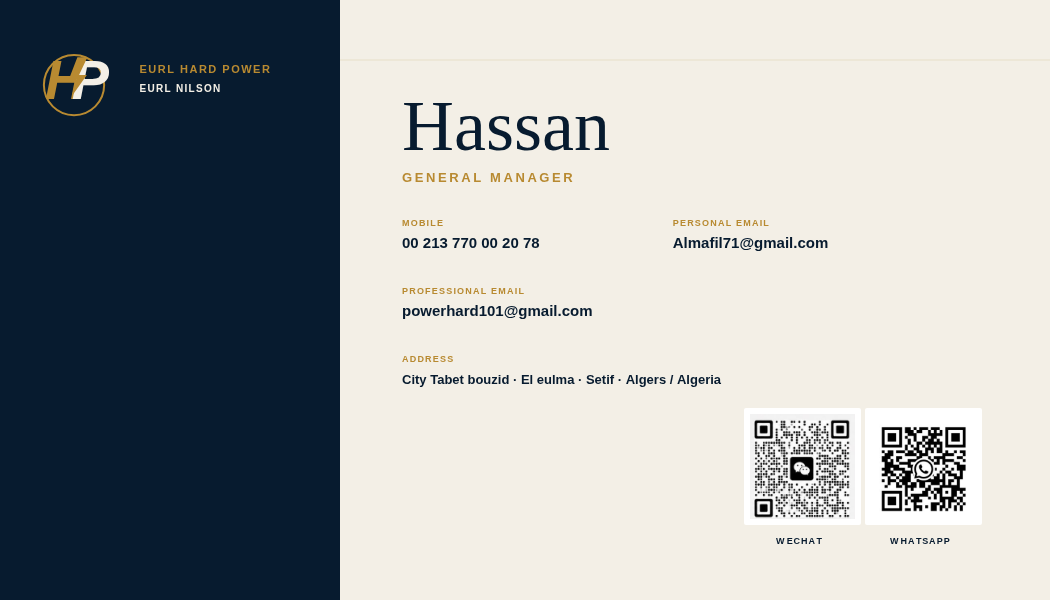
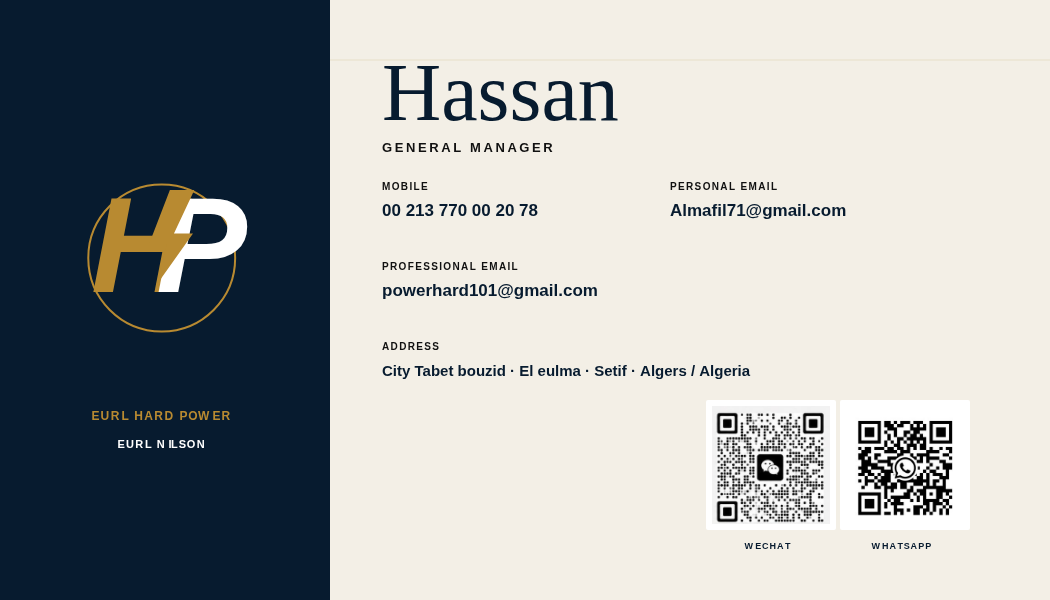
Publish complete 50-card Omar3 collection

diff --git a/omar3/render.js b/omar3/render.js
@@ -3,29 +3,38 @@ const W=1050,H=600,info={name:'Hassan',role:'General Manager',companies:['EURL H
 const id=Math.max(1,Math.min(50,+(new URLSearchParams(location.search).get('id')||1))),d=window.CARD_DESIGNS[id-1],c=document.getElementById('card'),x=c.getContext('2d');
 const qr1=new Image(),qr2=new Image();qr1.src='assets/wechat-qr.png';qr2.src='assets/whatsapp-qr.png';Promise.all([ready(qr1),ready(qr2)]).then(draw);
 function ready(im){return new Promise(r=>im.complete?r():im.onload=r)}
+function rgb(hex){let h=hex.replace('#','');if(h.length===3)h=h.split('').map(v=>v+v).join('');const n=parseInt(h,16);return[n>>16,n>>8&255,n&255]}
+function luminance(hex){return rgb(hex).map(v=>{v/=255;return v<=.03928?v/12.92:Math.pow((v+.055)/1.055,2.4)}).reduce((s,v,i)=>s+v*[.2126,.7152,.0722][i],0)}
+function ratio(a,b){const l1=luminance(a),l2=luminance(b);return(Math.max(l1,l2)+.05)/(Math.min(l1,l2)+.05)}
+function contrast(hex){return ratio('#111111',hex)>=ratio('#ffffff',hex)?'#111111':'#ffffff'}
+function accessible(fg,bg){return ratio(fg,bg)>=4.5?fg:contrast(bg)}
 function rect(a,b,w,h,col,rad=0){x.fillStyle=col;if(!rad){x.fillRect(a,b,w,h);return}x.beginPath();x.roundRect(a,b,w,h,rad);x.fill()}
 function line(a,b,cx,cy,col,w=1){x.strokeStyle=col;x.lineWidth=w;x.beginPath();x.moveTo(a,b);x.lineTo(cx,cy);x.stroke()}
 function text(s,a,b,size,col=d.ink,font=d.bodyFont,weight=400,align='left',italic=false){x.fillStyle=col;x.font=`${italic?'italic ':''}${weight} ${size}px ${font}`;x.textAlign=align;x.textBaseline='alphabetic';x.fillText(s,a,b)}
 function caps(s,a,b,size=11,col=d.accent,spacing=2,align='left'){x.save();x.fillStyle=col;x.font=`700 ${size}px ${d.bodyFont}`;x.textAlign=align;let chars=s.toUpperCase().split(''),width=chars.reduce((v,ch)=>v+x.measureText(ch).width,0)+spacing*(chars.length-1),p=align==='center'?a-width/2:align==='right'?a-width:a;chars.forEach(ch=>{x.fillText(ch,p,b);p+=x.measureText(ch).width+spacing});x.restore()}
 function logo(a,b,size,mode=0){x.save();if(mode%4===1){x.strokeStyle=d.accent;x.lineWidth=2;x.beginPath();x.arc(a+size*.52,b-size*.25,size*.54,0,Math.PI*2);x.stroke()}if(mode%4===2){x.strokeStyle=d.accent;x.strokeRect(a-10,b-size*.84,size*1.48,size)}text('H',a,b,size,d.accent,'Arial',900,'left',true);text('P',a+size*.48,b,size,d.ink==='white'?'#fff':d.ink,'Arial',900,'left',true);x.fillStyle=d.accent;x.beginPath();x.moveTo(a+size*.58,b-size*.75);x.lineTo(a+size*.76,b-size*.75);x.lineTo(a+size*.61,b-size*.43);x.lineTo(a+size*.75,b-size*.43);x.lineTo(a+size*.48,b-size*.05);x.lineTo(a+size*.56,b-size*.36);x.lineTo(a+size*.43,b-size*.36);x.closePath();x.fill();x.restore()}
-function motifs(){const m=d.motif;x.save();x.globalAlpha=.15;x.strokeStyle=d.accent;x.fillStyle=d.accent;if(m===0){line(0,60,W,60,d.accent,1)}else if(m===1){rect(0,0,230,H,d.accent);rect(250,0,16,H,d.ink)}else if(m===2){for(let a=0;a<W;a+=44)line(a,0,a,H,d.accent,.5);for(let b=0;b<H;b+=44)line(0,b,W,b,d.accent,.5)}else if(m===3){for(let b=20;b<H;b+=18)text('·',b*1.6,b,20,d.accent,'monospace',400)}else if(m===4){x.beginPath();x.arc(W*.76,H*.48,230,0,Math.PI*2);x.stroke();x.beginPath();x.arc(W*.76,H*.48,170,0,Math.PI*2);x.stroke()}else if(m===5){for(let b=70;b<H;b+=82)line(0,b,W,b,d.accent,2)}else if(m===6){x.beginPath();x.arc(85,90,180,0,Math.PI*2);x.fill();x.beginPath();x.arc(W-80,H-60,210,0,Math.PI*2);x.fill()}else if(m===7){x.beginPath();x.ellipse(W*.72,H*.45,320,210,-.3,0,Math.PI*2);x.stroke()}else if(m===8){x.beginPath();x.moveTo(0,400);x.bezierCurveTo(250,260,420,590,690,380);x.bezierCurveTo(850,260,950,310,W,220);x.lineTo(W,H);x.lineTo(0,H);x.fill()}else if(m===9){for(let i=0;i<5;i++){x.strokeRect(30+i*16,30+i*16,W-60-i*32,H-60-i*32)}}else if(m===10){x.setLineDash([10,8]);x.strokeRect(28,28,W-56,H-56)}else if(m===11){for(let i=0;i<14;i++){x.beginPath();x.arc(W*.72,H*.5,22+i*18,0,Math.PI*2);x.stroke()}}else{x.beginPath();x.moveTo(0,H);x.lineTo(W*.52,0);x.lineTo(W*.68,0);x.lineTo(W*.18,H);x.fill()}x.restore()}
-function labelValue(label,value,a,b,width=290){caps(label,a,b,9,d.accent,1.2);let sz=value.length>34?13:15;text(value,a,b+22,sz,d.ink,d.bodyFont,600);}
+function motifs(){const m=d.motif;x.save();x.globalAlpha=.15;x.strokeStyle=d.accent;x.fillStyle=d.accent;if(m===0){line(0,60,W,60,d.accent,1)}else if(m===1){rect(0,0,230,H,d.accent);rect(250,0,16,H,d.ink)}else if(m===2){for(let a=0;a<W;a+=44)line(a,0,a,H,d.accent,.5);for(let b=0;b<H;b+=44)line(0,b,W,b,d.accent,.5)}else if(m===3){for(let b=20;b<H;b+=18)text('·',b*1.6,b,20,d.accent,'monospace',400)}else if(m===4){x.beginPath();x.arc(W*.76,H*.48,230,0,Math.PI*2);x.stroke();x.beginPath();x.arc(W*.76,H*.48,170,0,Math.PI*2);x.stroke()}else if(m===5){line(22,22,W-22,22,d.accent,2);line(22,H-22,W-22,H-22,d.accent,2);line(22,22,22,H-22,d.accent,2);line(W-22,22,W-22,H-22,d.accent,2)}else if(m===6){x.beginPath();x.arc(85,90,180,0,Math.PI*2);x.fill();x.beginPath();x.arc(W-80,H-60,210,0,Math.PI*2);x.fill()}else if(m===7){x.beginPath();x.ellipse(W*.72,H*.45,320,210,-.3,0,Math.PI*2);x.stroke()}else if(m===8){x.beginPath();x.moveTo(0,400);x.bezierCurveTo(250,260,420,590,690,380);x.bezierCurveTo(850,260,950,310,W,220);x.lineTo(W,H);x.lineTo(0,H);x.fill()}else if(m===9){for(let i=0;i<5;i++){x.strokeRect(30+i*16,30+i*16,W-60-i*32,H-60-i*32)}}else if(m===10){x.setLineDash([10,8]);x.strokeRect(28,28,W-56,H-56)}else if(m===11){for(let i=0;i<14;i++){x.beginPath();x.arc(W*.72,H*.5,22+i*18,0,Math.PI*2);x.stroke()}}else{x.beginPath();x.moveTo(0,H);x.lineTo(W*.52,0);x.lineTo(W*.68,0);x.lineTo(W*.18,H);x.fill()}x.restore()}
+function labelValue(label,value,a,b,width=290){caps(label,a,b,9,accessible(d.accent,d.bg),1.2);let sz=value.length>34?13:15;text(value,a,b+22,sz,d.ink,d.bodyFont,600);}
+function labelValueLarge(label,value,a,b){caps(label,a,b,10,accessible(d.accent,d.bg),1.35);let sz=value.length>34?15:17;text(value,a,b+26,sz,d.ink,d.bodyFont,600)}
 function qrPair(a,b,size=118,vertical=false){const gap=vertical?18:16;function one(im,label,px,py){rect(px-6,py-6,size+12,size+12,'#fff',d.radius>40?18:2);x.drawImage(im,px,py,size,size);caps(label,px+size/2,py+size+25,9,d.ink,1,'center')}one(qr1,'WeChat',a,b);one(qr2,'WhatsApp',vertical?a:b? a+size+gap:a+size+gap,vertical?b+size+42:b,size)}
 function standardInfo(a,b,cols=true,scale=1){if(cols){labelValue('Mobile',info.mobile,a,b);labelValue('Personal Email',info.personal,a+285*scale,b);labelValue('Professional Email',info.professional,a,b+68);labelValue('Address',info.address,a,b+136)}else{labelValue('Mobile',info.mobile,a,b);labelValue('Professional Email',info.professional,a,b+64);labelValue('Personal Email',info.personal,a,b+128);labelValue('Address',info.address,a,b+192)}}
-function header(a,b,scale=1,align='left'){logo(a,b+60*scale,62*scale,d.id);let ca=align==='right'?a-10:a+105*scale;caps(info.companies[0],ca,b+31*scale,11,d.accent,1.5,align);caps(info.companies[1],ca,b+52*scale,10,d.ink,1.3,align)}
-function nameBlock(a,b,size=70,align='left'){text(info.name,a,b,size,d.ink,d.nameFont,d.nameFont==='Arial'?700:500,align,d.logo==='script');caps(info.role,a,b+32,13,d.accent,2.6,align)}
+function header(a,b,scale=1,align='left'){logo(a,b+60*scale,62*scale,d.id);let ca=align==='right'?a-10:a+105*scale;caps(info.companies[0],ca,b+31*scale,11,accessible(d.accent,d.bg),1.5,align);caps(info.companies[1],ca,b+52*scale,10,accessible(d.ink,d.bg),1.3,align)}
+function nameBlock(a,b,size=70,align='left'){text(info.name,a,b,size,d.ink,d.nameFont,d.nameFont==='Arial'?700:500,align,d.logo==='script');caps(info.role,a,b+32,13,accessible(d.accent,d.bg),2.6,align)}
 function layout(){
- if(d.layout===0){rect(0,0,340,H,d.ink);let old=d.ink;d.ink=d.bg;header(45,45,.9);d.ink=old;nameBlock(402,150,72);standardInfo(402,226,true,.95);qrPair(750,414,105);}
+ if(d.id===1){rect(0,0,330,H,d.ink);let old=d.ink,oldAccent=d.accent,oldBg=d.bg,panel=d.ink,panelInk=contrast(panel);d.bg=panel;d.ink=panelInk;logo(91,292,136,1);caps(info.companies[0],165,420,12,d.accent,1.4,'center');caps(info.companies[1],165,448,11,panelInk,1.3,'center');d.bg=oldBg;d.ink=old;d.accent=oldAccent;nameBlock(382,120,82);labelValueLarge('Mobile',info.mobile,382,190);labelValueLarge('Personal Email',info.personal,670,190);labelValueLarge('Professional Email',info.professional,382,270);labelValueLarge('Address',info.address,382,350);qrPair(712,406,118);}
+ else if(d.id===4){rect(0,0,360,H,d.accent);let old=d.ink,oldAccent=d.accent,oldBg=d.bg,panel=d.accent,panelInk=contrast(panel);d.bg=panel;d.ink=panelInk;d.accent=panelInk;header(44,42,.82);nameBlock(46,220,68);qrPair(48,362,103);d.bg=oldBg;d.ink=old;d.accent=oldAccent;labelValueLarge('Mobile',info.mobile,420,105);labelValueLarge('Professional Email',info.professional,420,195);labelValueLarge('Personal Email',info.personal,420,285);labelValueLarge('Address',info.address,420,375);}
+ else if(d.id===6){header(48,42,.82);nameBlock(48,220,84);qrPair(48,352,112);line(340,55,340,545,d.accent,2);labelValueLarge('Mobile',info.mobile,392,95);labelValueLarge('Professional Email',info.professional,392,185);labelValueLarge('Personal Email',info.personal,392,275);labelValueLarge('Address',info.address,392,365);}
+ else if(d.layout===0){rect(0,0,340,H,d.ink);let old=d.ink,oldAccent=d.accent,oldBg=d.bg,panel=d.ink,panelInk=contrast(panel);d.bg=panel;d.ink=panelInk;d.accent=panelInk;header(45,45,.9);d.bg=oldBg;d.ink=old;d.accent=oldAccent;nameBlock(402,150,72);standardInfo(402,226,true,.95);qrPair(750,414,105);}
  else if(d.layout===1){header(55,42,.9);nameBlock(58,225,78);standardInfo(60,310,true,.9);qrPair(755,380,112);}
  else if(d.layout===2){header(55,45,.85);nameBlock(525,160,72,'center');standardInfo(350,245,true,.9);qrPair(390,420,110);}
  else if(d.layout===3){x.strokeStyle=d.accent;x.lineWidth=2;x.strokeRect(28,28,W-56,H-56);header(70,52,.78);nameBlock(525,170,68,'center');line(240,215,810,215,d.accent,1);standardInfo(95,275,false);qrPair(665,300,122);}
- else if(d.layout===4){rect(0,0,360,H,d.accent);let old=d.ink,oldAccent=d.accent;d.ink=d.bg;d.accent=d.bg;header(45,50,.85);nameBlock(48,250,66);d.ink=old;d.accent=oldAccent;standardInfo(410,110,false);qrPair(705,374,112);}
+ else if(d.layout===4){rect(0,0,360,H,d.accent);let old=d.ink,oldAccent=d.accent,oldBg=d.bg,panel=d.accent,panelInk=contrast(panel);d.bg=panel;d.ink=panelInk;d.accent=panelInk;header(45,50,.85);nameBlock(48,250,66);d.bg=oldBg;d.ink=old;d.accent=oldAccent;standardInfo(410,110,false);qrPair(705,374,112);}
  else if(d.layout===5){header(62,45,.82);nameBlock(70,210,78);standardInfo(72,295,false);qrPair(720,205,130);}
  else if(d.layout===6){header(50,40,.78);nameBlock(48,190,72);standardInfo(50,275,true,.92);rect(690,42,310,516,d.ink,8);let old=d.ink;d.ink=d.bg;caps(info.companies[0],720,84,10,d.accent,1.3);qrPair(720,210,112);d.ink=old;}
  else if(d.layout===7){text(info.name,55,178,112,d.ink,d.nameFont,700,'left',true);caps(info.role,62,220,13,d.accent,2.5);header(760,40,.65);standardInfo(55,310,true,.95);qrPair(720,390,112);}
  else if(d.layout===8){header(42,35,.75);nameBlock(45,170,66);rect(40,225,610,325,d.ink,d.radius||24);let old=d.ink;d.ink=d.bg;standardInfo(72,274,false);d.ink=old;rect(680,45,330,505,d.accent,d.radius||24);old=d.ink;d.ink=d.bg;qrPair(710,206,118);d.ink=old;}
  else if(d.layout===9){header(55,45,.72);nameBlock(65,225,75);standardInfo(505,95,false);line(460,55,460,545,d.accent,2);qrPair(55,370,120);}
- else {x.save();x.translate(-30,40);x.rotate(-.08);rect(0,0,1120,145,d.accent);x.restore();header(58,55,.78);nameBlock(60,260,78);standardInfo(60,340,true,.92);qrPair(760,350,110);}
+ else {x.save();x.translate(-30,40);x.rotate(-.08);rect(0,0,1120,145,d.accent);x.restore();let old=d.ink,oldAccent=d.accent,oldBg=d.bg,band=d.accent,bandInk=contrast(band);d.bg=band;d.ink=bandInk;d.accent=bandInk;header(58,55,.78);d.bg=oldBg;d.ink=old;d.accent=oldAccent;nameBlock(60,260,78);standardInfo(60,340,true,.92);qrPair(760,350,110);}
 }
 function draw(){rect(0,0,W,H,d.bg,d.radius>0&&d.layout!==2?Math.min(d.radius,80):0);motifs();layout();document.body.dataset.ready='true'}
 })();

diff --git a/omar3/available.js b/omar3/available.js
@@ -1,1 +1,1 @@
-window.CARD_AVAILABLE = 6;
+window.CARD_AVAILABLE = 50;
